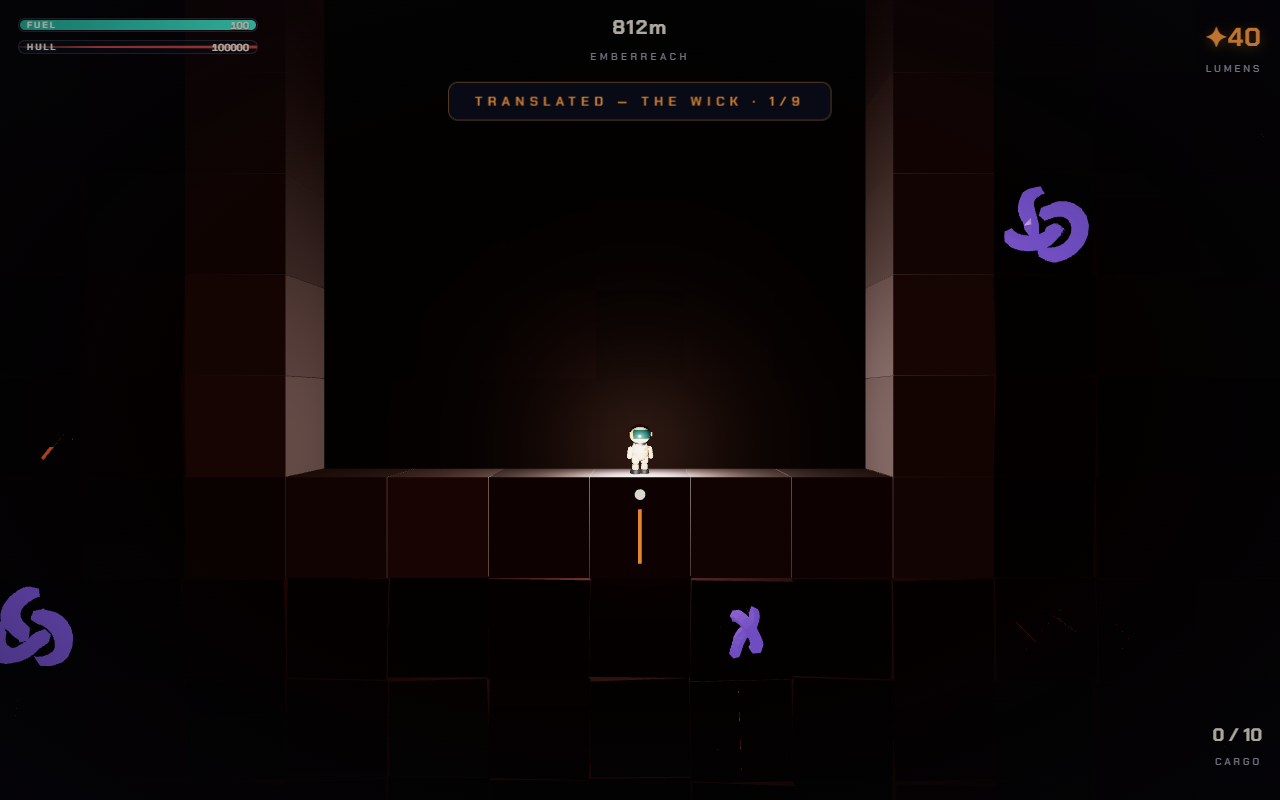
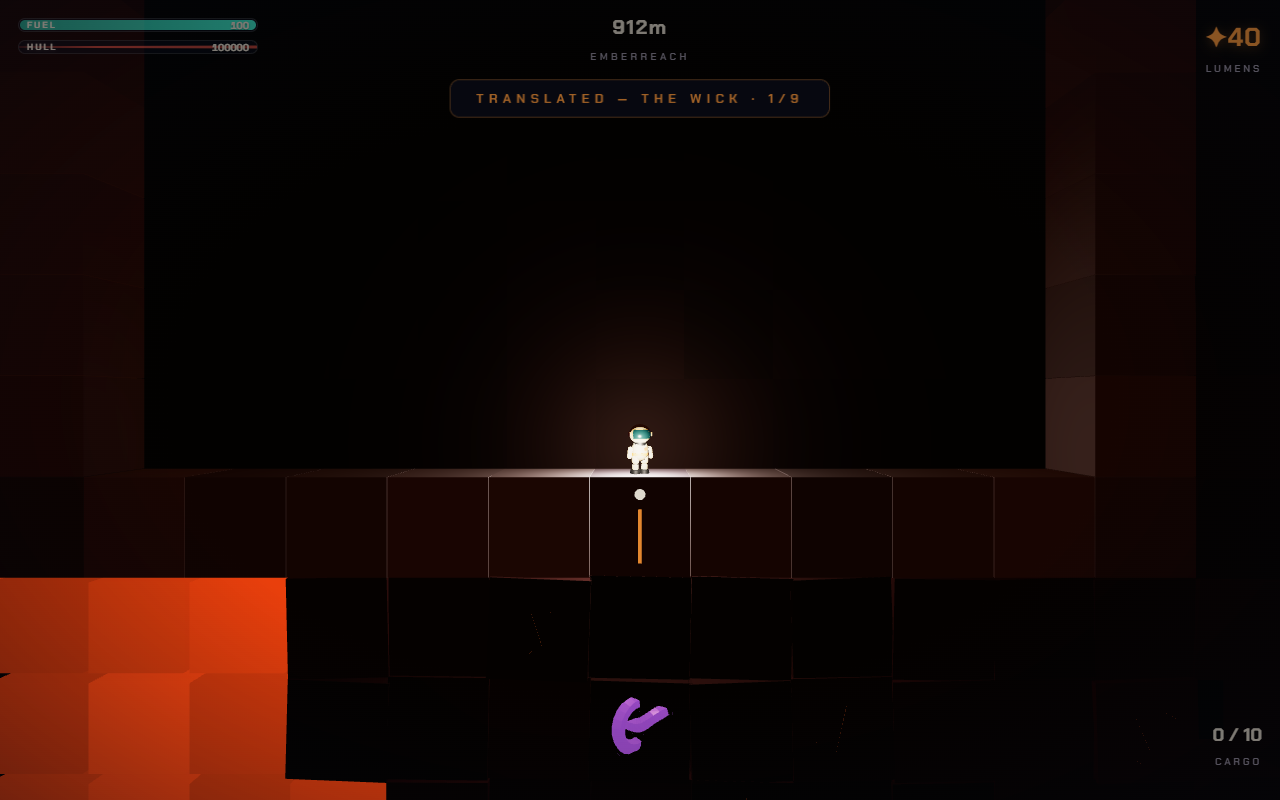
V4 · THE RETURN
The U walked in full, and the only new thing in it is a role. You have spent
the game dodging the lantern; here there is a gutter no jump crosses, no
floor serves, and the only thing in reach is the crown at the top of its
swing. The ride is discovered because nothing else is left, over a gutter
shallow enough that being wrong costs seconds.

The bottom is right-gravity: the corridor IS sideways-down, walked along its
own wall and threaded with bolts, and midway through it is the one who
stayed and the sconce beside them. The door wants all three, so you cannot
pass without standing with them. Then the gate seals the bottom, because the
return does not un-happen, and the lanterns are ridden upward on the far
limb, apex to apex.

Three authoring errors worth recording, none of which reading the map would
have shown. The gravity zone was painted over a sconce that had been placed
first. The gallery floor was laid straight over the last rung of the climb,
leaving one course of clearance for a body two courses tall — the ascent
ended one jump short of the room it exists to reach. And the ledges spanned
the whole chimney, so the fit walk could not chain a single anchor past them;
they stop short of a column now, which is also how the climb reads.

Rewrites the return check to follow the room rather than a snapshot of one.
It finds the corridor from its own gravity zone and the door from its own
price, so a rewrite cannot quietly invalidate it, and it now proves the
[…]

diff --git a/src/world/vaults.ts b/src/world/vaults.ts
@@ -718,64 +718,91 @@ export const VAULTS: VaultDef[] = [
       '######################################################'
     ],
   },
-  // 8 · THE RETURN — the U walked in full: censers swing across the
-  // descent, the bottom is a current threaded with bolts, and the way
-  // up to the stone will not open until you have stood with the one
-  // who stayed and lit the sconce beside it.
+  // 8 · THE RETURN — the U walked in full, and the only new thing in it is a
+  // ROLE. You have spent the game dodging the lantern; here there is a gutter
+  // no jump crosses, no floor serves, and the only thing in reach is the
+  // crown at the top of its swing. The ride is discovered because nothing
+  // else is left, over a gutter shallow enough that being wrong costs
+  // seconds (grammar §1.6).
+  //
+  // The bottom is right-gravity: the corridor IS sideways-down, walked along
+  // its own wall, and midway through it is the one who stayed and the sconce
+  // beside them. You cannot pass without standing with them.
   {
     glyph: 'return',
-    // the U walked in full, cut at its three corners
-    chambers: [5, 26, 39],
-    doorNeeds: { '1': 2 },
+    chambers: [17, 38],
+    doorNeeds: { '1': 3 },
     censers: [
-      { x: 6, y: 10, len: 3.2, arc: 1.0, period: 2.55, phase: 0 },
-      { x: 6, y: 19, len: 3.2, arc: 1.0, period: 2.55, phase: 0.5 },
+      // dodged on the way down...
+      { x: 9, y: 7, len: 3.0, arc: 0.95, period: 2.55, phase: 0 },
+      { x: 6, y: 15, len: 2.8, arc: 0.9, period: 2.55, phase: 0.5 },
+      // ...and RIDDEN across the gutter, because there is nothing else
+      { x: 10, y: 22, len: 3.2, arc: 1.0, period: 2.55, phase: 0.25 },
+      // then ridden upward on the far limb, apex to apex
+      { x: 46, y: 22, len: 3.0, arc: 0.95, period: 2.55, phase: 0 },
+      { x: 50, y: 14, len: 2.8, arc: 0.9, period: 2.55, phase: 0.5 },
+      { x: 45, y: 8, len: 2.6, arc: 0.85, period: 2.55, phase: 0.25 },
     ],
     shuttles: [
-      { x0: 26, y0: 29, x1: 26, y1: 32, period: 1.7, phase: 0 },
-      { x0: 38, y0: 29, x1: 38, y1: 32, period: 1.7, phase: 0.5 },
+      // bolts threading the sideways corridor
+      { x0: 23, y0: 26, x1: 32, y1: 26, period: 1.7, phase: 0 },
+      { x0: 34, y0: 29, x1: 23, y1: 29, period: 2.55, phase: 0.5 },
+      // and the moth on the descent, awake to the light you are carrying
+      { x0: 3, y0: 11, x1: 14, y1: 19, period: 3.4, phase: 0, snuff: true },
+    ],
+    currents: [
+      // the vent under the corridor's far end, the road out of the bottom
+      { x0: 36, y0: 24, x1: 37, y1: 30, force: 46 },
     ],
     crushers: [
-      { x: 44, y: 18, w: 2, h: 2, dx: -3, dy: 0, period: 2.55, phase: 0 },
+      // one on the descent, so the ascent's pair recombine rather than debut
+      { x: 1, y: 12, w: 2, h: 2, dx: 4, dy: 0, period: 3.4, phase: 0.25 },
+      { x: 44, y: 27, w: 2, h: 2, dx: 0, dy: -3, period: 3.4, phase: 0 },
+      { x: 49, y: 19, w: 2, h: 2, dx: 0, dy: -3, period: 3.4, phase: 0.5 },
+    ],
+    gates: [
+      // the return does not un-happen
+      { x0: 38, y0: 29, x1: 47, y1: 29 },
     ],
     map: [
       '########################################################',
       '########################################################',
-      '########################################################',
-      '#........###########################........1...........'.slice(0, 55) + '#',
-      '#..@.....###########################...S....1......M....'.slice(0, 55) + '#',
-      '#........###########################........1...........'.slice(0, 55) + '#',
-      '####....################################.....############'.slice(0, 55) + '#',
-      '####....#################################^^^#############'.slice(0, 55) + '#',
-      '####....#################################^^^#############'.slice(0, 55) + '#',
-      '####....#################################^^^#############'.slice(0, 55) + '#',
-      '####....#################################X^^#############'.slice(0, 55) + '#',
-      '####....#################################^^^#############'.slice(0, 55) + '#',
-      '####....#################################^^^#############'.slice(0, 55) + '#',
-      '####....#################################^^^#############'.slice(0, 55) + '#',
-      '####....#################################^^X#############'.slice(0, 55) + '#',
-      '####....#################################^^^#############'.slice(0, 55) + '#',
-      '####....#################################^^^#############'.slice(0, 55) + '#',
-      '####....#################################^^^#############'.slice(0, 55) + '#',
-      '####....#################################^^^#############'.slice(0, 55) + '#',
-      '####....#################################^^^#############'.slice(0, 55) + '#',
-      '####....#################################^^^#############'.slice(0, 55) + '#',
-      '####.S..#################################^^^#############'.slice(0, 55) + '#',
-      '####....#################################^^^#############'.slice(0, 55) + '#',
-      '####....#################################^^^#############'.slice(0, 55) + '#',
-      '####....#################################^^^#############'.slice(0, 55) + '#',
-      '####....#################################^^^#############'.slice(0, 55) + '#',
-      '####....#################################^^^#############'.slice(0, 55) + '#',
-      '####....#################################^^^#############'.slice(0, 55) + '#',
-      '####....#################################^^^#############'.slice(0, 55) + '#',
-      '####>>>>>>>>>>>>>>X>>>>>>>>>>>>>>>>>>>>>>>>>#############'.slice(0, 55) + '#',
-      '####>>>>>>>>>>>>>>X>>>>>>>>>>>>>>>>>>>>>>>>>#############'.slice(0, 55) + '#',
-      '####>>>>>>>>>>>>>>>>>>>>K.S>>>>>>>>X>>>>>>>>#############'
-        .replace('K.S', 'K>S').slice(0, 55) + '#',
-      '####>>>>>>>>>>>>>>>>>>>>>>>>>>>>>>>X>>>>>>>>#############'.slice(0, 55) + '#',
+      '#......................................................#',
+      '#........................................#.............#',
+      '#..@..S.ooooooo..........................#.............#',
+      '#################........................#.............#',
+      '#................######>>>######>>>####..#.............#',
+      '#................######>>>######>>>####..#.....oKoMoNo.#',
+      '#.........oooooo.######>>>######>>>####..#.....#########',
+      '#########........######>>>######>>>####..#.............#',
+      '#................######>>>######>>>####..####..........#',
+      '#................######>>>######>>>####..#.....oooo#####',
+      '#.oooooo.........######>>>######>>>####..#.....#########',
+      '#.........#############>>>######>>>####..#.........#####',
+      '#................######>>>######>>>####..#.....#########',
+      '#................######>>>######>>>####..#.........#####',
+      '#.........oooooo.######>>>######>>>####..#####.....#####',
+      '########.........######>>>######>>>####..#.........#####',
+      '#................######>>>######>>>####..#.....#########',
+      '#................######>>>>>>>>>>>>####..#oooo.....#####',
+      '#.oooooo.........######>>>>>>>>>>>>####..#####.....#####',
+      '#........##############>>>>>>>>>>>>####..#.........#####',
+      '#................>>>>>>>>>>>>>>>>>>####..#.....#########',
+      '#..............##>>>>>>>>>>>>>>>>>>>>>11.#.........#####',
+      '#.....oooooooooo.S>>>>>>>>>>>>>>ooo>>S11.#####.....#####',
+      '######.......####>>>>>>>>>>>>>>>>>>>>>11.#.........#####',
+      '#................>>>>>>ooo>>>>>>>>>>>>11.......#########',
+      '#................>>>>>>>>>>>>>>>>>>>>>11.......oooo#####',
+      '#################>>>>>>>>>>>>>>>>>>>>>11..####.....#####',
+      '#................>>>>>>>>>>>C>F>>>>>>>>............#####',
+      '#................>>>>>>>>>>>>>>>>>>>>>>..###############',
+      '#######################################................#',
       '########################################################',
       '########################################################',
       '########################################################',
+      '########################################################',
+      '########################################################',
+      '########################################################'
     ],
   },
   // 9 · THE KINDLED — the exam, in four movements, in the dark: bolts

diff --git a/scripts/author-return.py b/scripts/author-return.py
@@ -1,0 +1,180 @@
+"""THE RETURN — V4 authoring. 56 x 38, the U walked in full.
+
+Down the left chimney, across the bottom, up the right. Introduces no noun;
+it introduces a ROLE. You have spent the whole game dodging the lantern and
+here there is a gutter no jump crosses, no floor serves, and the only thing
+in reach is the crown at the top of its swing. The ride is discovered because
+nothing else is left (grammar §1.6), over a gutter shallow enough that being
+wrong about it costs seconds.
+
+Cuts at 17 and 38, each with a sconce on it. The ascent past 38 is the last
+chamber: no sconce, and nothing in it the U has not already walked.
+"""
+import io
+
+W, H = 56, 38
+g = [['.'] * W for _ in range(H)]
+
+
+def box(x0, y0, x1, y1, ch='#'):
+    for y in range(y0, y1 + 1):
+        for x in range(x0, x1 + 1):
+            if 0 <= y < H and 0 <= x < W:
+                g[y][x] = ch
+
+
+def run(y, x0, x1, ch='#'):
+    box(x0, y, x1, y, ch)
+
+
+def put(x, y, ch):
+    g[y][x] = ch
+
+
+box(0, 0, W - 1, 1)
+box(0, H - 1, W - 1, H - 1)
+box(0, 0, 0, H - 1); box(W - 1, 0, W - 1, H - 1)
+box(1, 32, W - 2, H - 2)          # the bed under the whole U, with no hollow
+
+# =============================================================================
+# THE DESCENT · cols 1-16. Censers across the chimney, dodged as taught —
+# until the gutter, where dodging is not one of the options.
+# =============================================================================
+run(5, 1, 16)
+put(3, 4, '@')
+put(6, 4, 'S')                    # the entry sconce
+run(4, 8, 14, 'o')
+run(9, 1, 8)
+run(13, 10, 16)
+run(17, 1, 7)
+run(21, 9, 16)
+run(8, 10, 15, 'o')
+run(12, 2, 7, 'o')
+run(16, 10, 15, 'o')
+run(20, 2, 7, 'o')
+# THE GUTTER. Shallow, and there is nothing across it but the lantern.
+run(25, 1, 5)
+run(28, 1, 16)                    # the gutter's own floor, three courses down
+run(24, 6, 15, 'o')               # the arc the ride is taken on, marked
+run(25, 13, 16)
+box(1, 31, 16, 31)
+run(23, 15, 18)
+run(25, 13, 18)                   # the gutter's far lip, widened to stand on
+
+# =============================================================================
+# THE BOTTOM · cols 17-38, gravity RIGHT. The corridor is sideways-down and
+# it is walked along its wall, threaded with bolts on the way through.
+# =============================================================================
+box(17, 6, 38, 30, '>')
+box(17, 6, 22, 21)                # the roof of the corridor, which is its wall
+box(26, 6, 31, 18)
+box(35, 6, 38, 22)
+put(17, 24, 'S')                  # the cut-17 sconce, placed AFTER the gravity
+                                  # zone that would otherwise write over it,
+                                  # and four clear courses off the ride's arc
+run(31, 17, 38)                   # the corridor's far side
+run(26, 23, 25, 'o')
+run(24, 32, 34, 'o')
+put(28, 29, 'C')                  # the one who stayed
+put(30, 29, 'F')
+put(37, 24, 'S')                  # the cameo sconce, which door 1 requires
+box(38, 23, 39, 28, '1')          # and the door it pays for, straddling the
+                                  # cut so the ascent introduces no new noun
+
+# =============================================================================
+# THE ASCENT · cols 41-54. Wall-jumps up the right limb, a gate sealing the
+# bottom behind you, and the lanterns ridden UPWARD this time, apex to apex.
+# =============================================================================
+run(30, 41, 54)
+box(41, 3, 41, 25)                # the limb's own wall — open at its foot, or
+                                  # the whole ascent is a room with no door
+run(28, 42, 45)                   # ledges alternating either side of the
+run(26, 47, 50)                   # chimney, a course apart: the climb is
+run(24, 42, 45)                   # wall-jumps and lantern-rides, and the
+run(22, 47, 50)                   # difficulty is what is swinging through it
+run(20, 42, 45)
+run(18, 47, 50)
+run(16, 42, 45)
+run(14, 47, 50)
+run(12, 47, 50)
+run(10, 42, 44)                   # the last ledge steps back to the near side,
+                                  # stopping short of col 46 so the chimney it
+                                  # climbs stays open all the way to the top
+run(27, 47, 50, 'o')
+run(19, 42, 45, 'o')
+run(11, 47, 50, 'o')
+box(51, 11, 54, 29)               # the limb's far wall
+# THE GALLERY. Offset from the ledge below it: a floor laid straight over the
+# last rung leaves one course of clearance, and the body is two courses tall —
+# the climb would end one jump short of the room it exists to reach.
+run(8, 47, 54)
+run(7, 47, 53, 'o')
+put(50, 7, 'M')
+put(48, 7, 'K')                   # reaching, still
+put(52, 7, 'N')
+
+rows = [''.join(r) for r in g]
+for i, r in enumerate(rows):
+    assert len(r) == W, f'row {i} is {len(r)}'
+
+defn = """  // 8 · THE RETURN — the U walked in full, and the only new thing in it is a
+  // ROLE. You have spent the game dodging the lantern; here there is a gutter
+  // no jump crosses, no floor serves, and the only thing in reach is the
+  // crown at the top of its swing. The ride is discovered because nothing
+  // else is left, over a gutter shallow enough that being wrong costs
+  // seconds (grammar §1.6).
+  //
+  // The bottom is right-gravity: the corridor IS sideways-down, walked along
+  // its own wall, and midway through it is the one who stayed and the sconce
+  // beside them. You cannot pass without standing with them.
+  {
+    glyph: 'return',
+    chambers: [17, 38],
+    doorNeeds: { '1': 3 },
+    censers: [
+      // dodged on the way down...
+      { x: 9, y: 7, len: 3.0, arc: 0.95, period: 2.55, phase: 0 },
+      { x: 6, y: 15, len: 2.8, arc: 0.9, period: 2.55, phase: 0.5 },
+      // ...and RIDDEN across the gutter, because there is nothing else
+      { x: 10, y: 22, len: 3.2, arc: 1.0, period: 2.55, phase: 0.25 },
+      // then ridden upward on the far limb, apex to apex
+      { x: 46, y: 22, len: 3.0, arc: 0.95, period: 2.55, phase: 0 },
+      { x: 50, y: 14, len: 2.8, arc: 0.9, period: 2.55, phase: 0.5 },
+      { x: 45, y: 8, len: 2.6, arc: 0.85, period: 2.55, phase: 0.25 },
+    ],
+    shuttles: [
+      // bolts threading the sideways corridor
+      { x0: 23, y0: 26, x1: 32, y1: 26, period: 1.7, phase: 0 },
+      { x0: 34, y0: 29, x1: 23, y1: 29, period: 2.55, phase: 0.5 },
+      // and the moth on the descent, awake to the light you are carrying
+      { x0: 3, y0: 11, x1: 14, y1: 19, period: 3.4, phase: 0, snuff: true },
+    ],
+    currents: [
+      // the vent under the corridor's far end, the road out of the bottom
+      { x0: 36, y0: 24, x1: 37, y1: 30, force: 46 },
+    ],
+    crushers: [
+      // one on the descent, so the ascent's pair recombine rather than debut
+      { x: 1, y: 12, w: 2, h: 2, dx: 4, dy: 0, period: 3.4, phase: 0.25 },
+      { x: 44, y: 27, w: 2, h: 2, dx: 0, dy: -3, period: 3.4, phase: 0 },
+      { x: 49, y: 19, w: 2, h: 2, dx: 0, dy: -3, period: 3.4, phase: 0.5 },
+    ],
+    gates: [
+      // the return does not un-happen
+      { x0: 38, y0: 29, x1: 47, y1: 29 },
+    ],
+    map: [
+%s
+    ],
+  },
+"""
+body = ',\n'.join("      '" + r + "'" for r in rows)
+out = defn % body
+
+p = 'src/world/vaults.ts'
+s = io.open(p, encoding='utf-8').read()
+start = s.index('  // 8 · THE RETURN')
+end = s.index('  // 9 · THE KINDLED')
+s = s[:start] + out + s[end:]
+io.open(p, 'w', encoding='utf-8').write(s)
+print('RETURN written:', len(rows), 'rows x', W)
